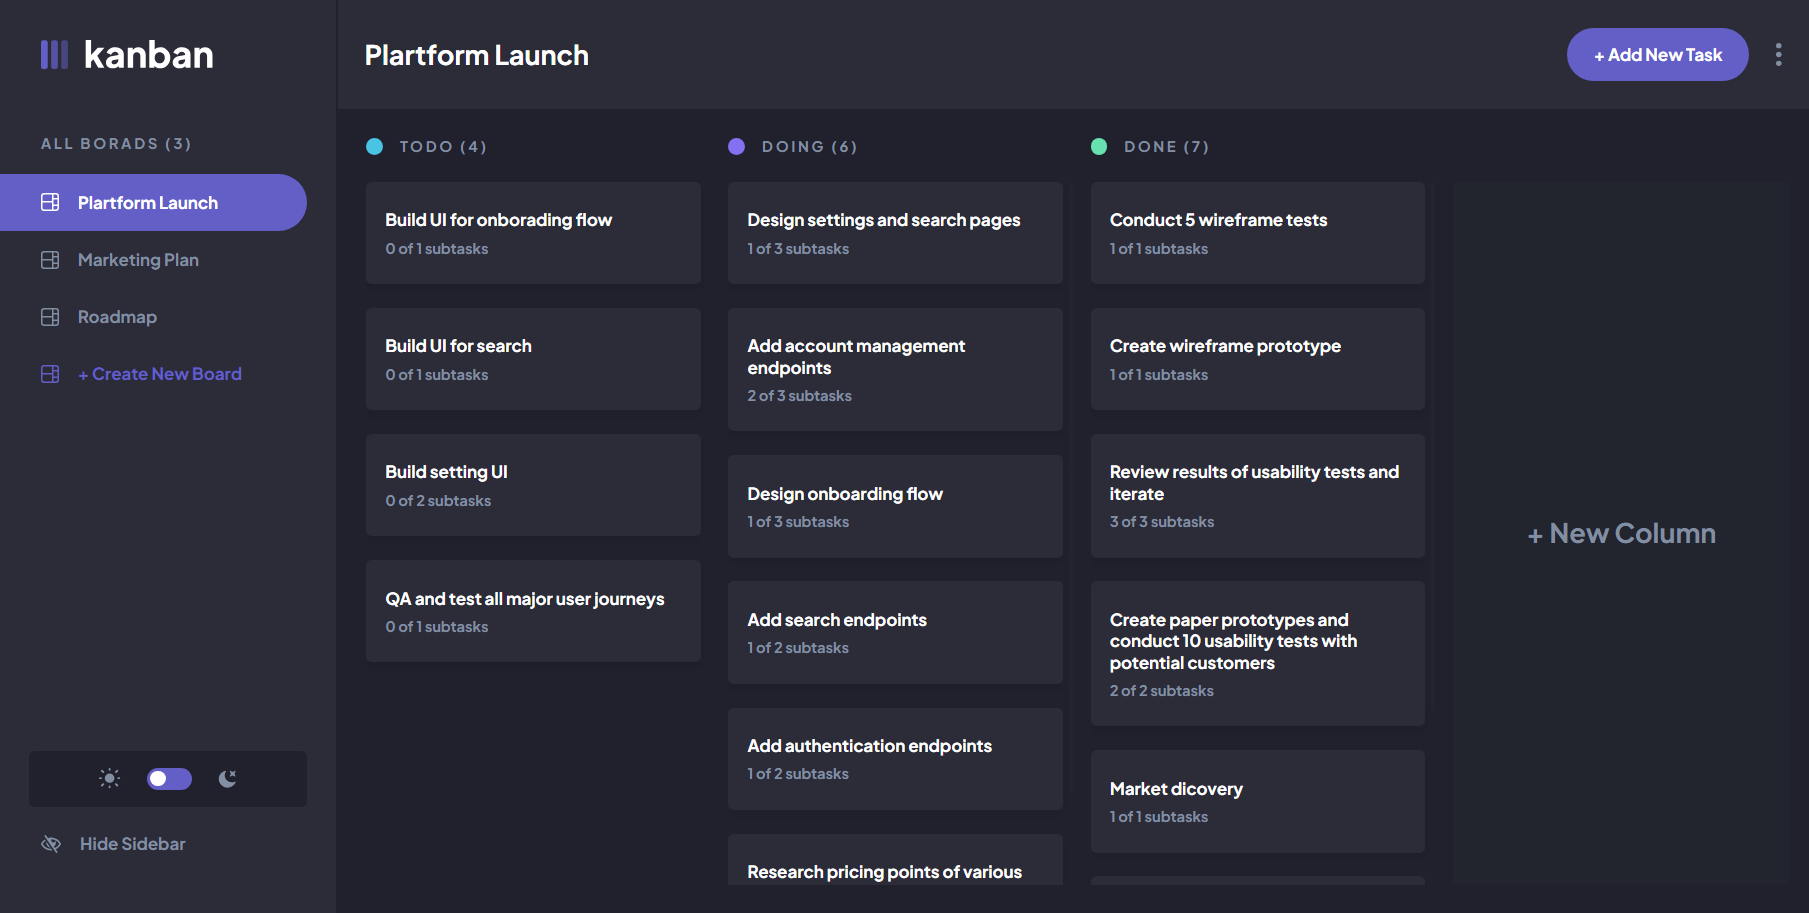
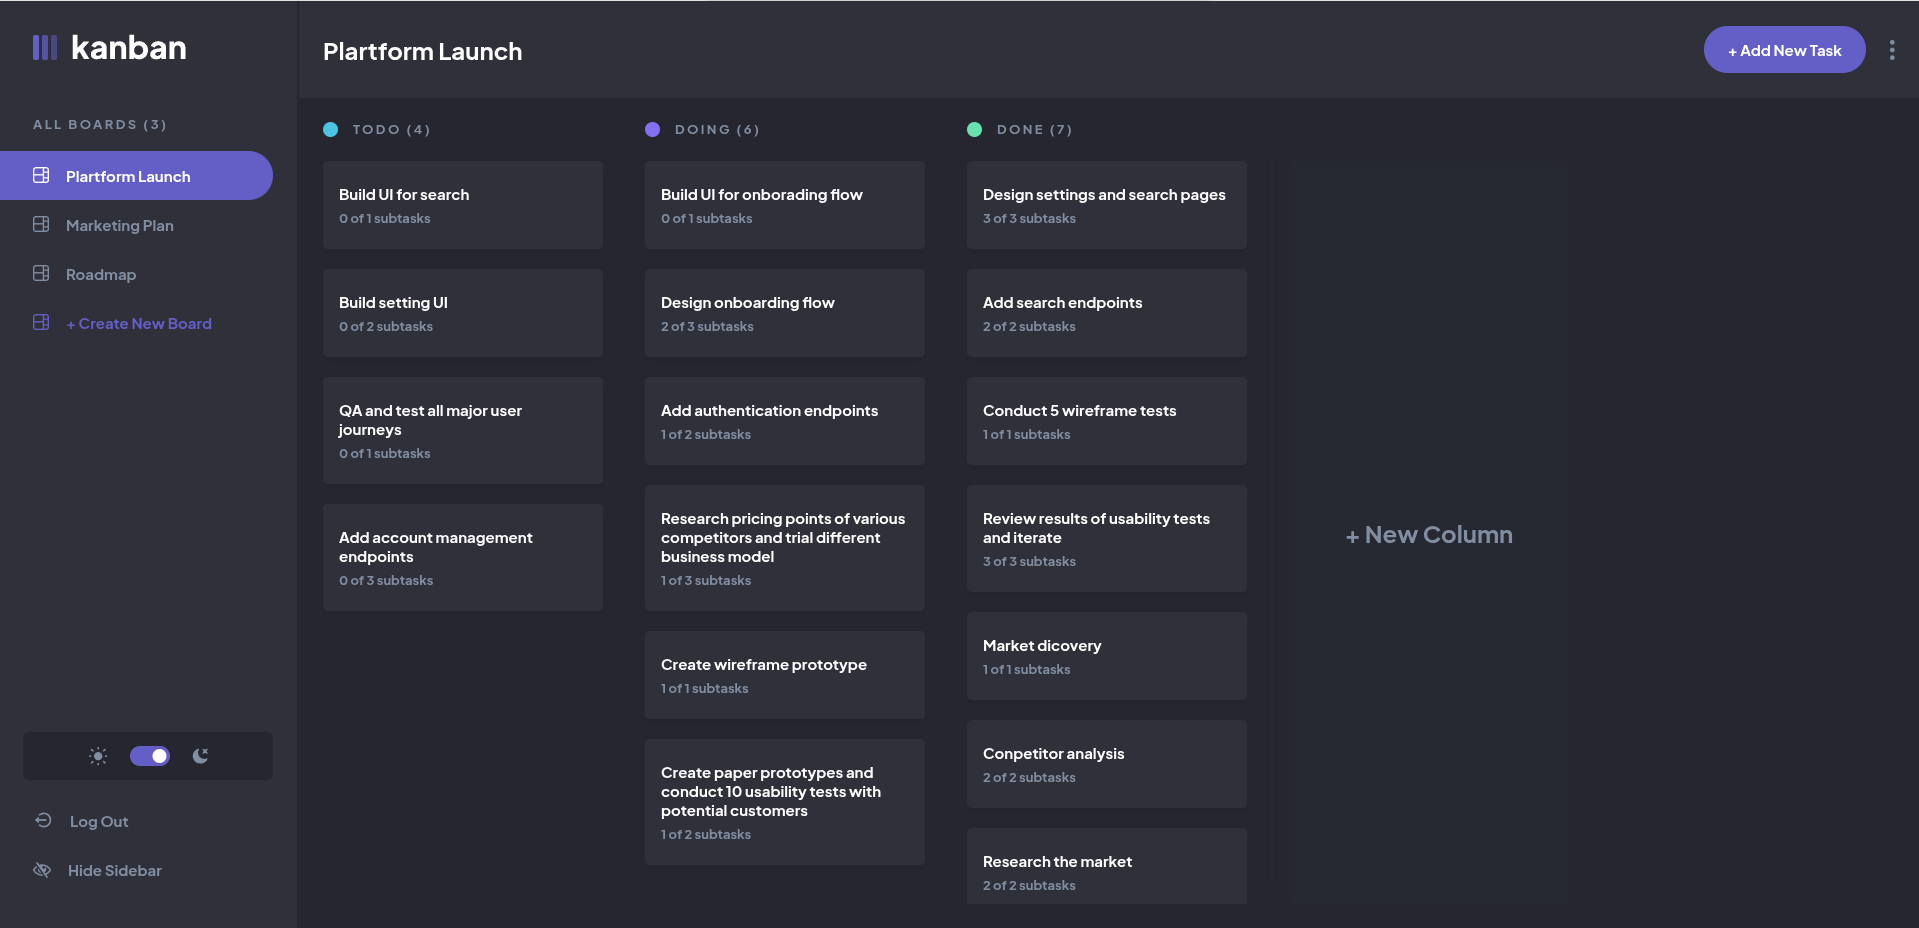
Docs: 調整專案 README 內容並新增中文說明

diff --git a/README.md b/README.md
@@ -2,24 +2,26 @@
 
 This is a solution to the [Kanban task management web app challenge on Frontend Mentor](https://www.frontendmentor.io/challenges/kanban-task-management-web-app-wgQLt-HlbB). Frontend Mentor challenges help you improve your coding skills by building realistic projects.
 
+這是在 Frontend Mentor 上的一個 [Kanban task management 網頁應用挑戰](https://www.frontendmentor.io/challenges/kanban-task-management-web-app-wgQLt-HlbB) 的開發成果。Frontend Mentor 希望藉由打造更貼近真實情境的專案題目，來幫助人們提升程式開發能力。
+
+- Live Demo: https://kanban-task-management-yishin.netlify.app/
+
 ## Table of contents
 
-- [Overview](#overview)
-  - [The challenge](#the-challenge)
-  - [Screenshot](#screenshot)
-  - [Links](#links)
-- [My process](#my-process)
-  - [Built with](#built-with)
-  - [Wireframe](#wireframe)
-  - [Components structure](#components-structure)
-  - [Events list](#events-list)
-  - [What I learned](#what-i-learned)
-  - [Useful resources](#useful-resources)
-- [Author](#author)
+- [Overview 概覽](#overview-概覽)
+  - [The challenge 挑戰內容](#the-challenge-挑戰內容)
+  - [Other features 其他功能](#other-features-其他功能)
+  - [Screenshot 專案截圖](#screenshot-專案截圖)
+- [My process 開發過程](#my-process-開發過程)
+  - [Built with 使用技術](#built-with-使用技術)
+  - [Refactoring 重構流程](#refactoring-重構流程)
+  - [What I learned 學習收穫](#what-i-learned-學習收穫)
+  - [Useful resources 實用資源](#useful-resources-實用資源)
+- [Author 作者](#author-作者)
 
-## Overview
+## Overview 概覽
 
-### The challenge
+### The challenge 挑戰內容
 
 Users should be able to:
 
@@ -30,46 +32,107 @@ Users should be able to:
 - Mark subtasks as complete and move tasks between columns
 - Hide/show the board sidebar
 - Toggle the theme between light/dark modes
-- **Bonus**: Allow users to drag and drop tasks to change their status and re-order them in a column
-- **Bonus**: Keep track of any changes, even after refreshing the browser (`localStorage` could be used for this if you're not building out a full-stack app)
-- **Bonus**: Build this project as a full-stack application
+- **Bonus**: Allow users to drag and drop tasks to change their status <s>and re-order them in a column</s>
+- **Bonus**: Keep track of any changes, even after refreshing the browser
+- <s>**Bonus**: Build this project as a full-stack application</s>
 
-### Screenshot
+p.s. Items with strikethrough are not implemented. Also, data is currently persisted with Supabase rather than a self-built backend.
+
+使用者應該能夠：
+
+- 依照裝置的螢幕尺寸，看到最合適的版面配置
+- 看到頁面上所有可互動元素的 hover 狀態
+- 新增、讀取、更新與刪除版塊和任務
+- 在新增或編輯版塊與任務時，收到必填欄位的驗證提示
+- 將子任務標記為已完成，並在不同狀態欄位之間移動任務
+- 隱藏或顯示看板側邊欄
+- 在淺色與深色模式之間切換主題
+- **加分項目**：讓使用者透過拖放任務來變更狀態，<s>並在同一欄位中重新排序</s>
+- **加分項目**：即使重新整理瀏覽器，也能保留所有變更
+- <s>**加分項目**：將這個專案做成全端應用程式</s>
+
+p.s. 加上刪除線的項目並未實作。以及目前資料的保存是使用 supabase 而非自行建置的後端。
+
+### Other features 其他功能
+
+Besides the basic features required by the challenge, the following were also added:
+
+- An account login page
+- A logout button in the sidebar
+- An empty state when no board exists yet
+- `*` marks on required fields
+- Loading animations on form submit buttons
+
+除了上述挑戰要求的基本功能以外，也進行了以下內容調整：
+
+- 新增了帳號登入畫面
+- 在側邊欄中新增了登出按鈕
+- 新增了尚未存在任何版塊時的空畫面
+- 需要驗證的表單欄位新增了 `*` 標記
+- 在表單的送出按鈕中新增 loading 動畫
+
+### Screenshot 專案截圖
 
 ![](./design/screenshot-light.png)
 
 ![](./design/screenshot-dark.png)
 
-### Links
+## My process 開發過程
 
-- Live Site URL: [Live site on Netlify](https://kanban-task-management-yishin.netlify.app/)
-- Solution URL: <del>[Solution page on Frontend Mentor](https://your-solution-url.com)</del> Unfinished
-
-## My process
-
-### Built with
+### Built with 使用技術
 
 - Desktop-first workflow
 - Semantic HTML5 markup
-- CSS custom properties
 - SCSS - CSS Preprocessor
-- [React](https://reactjs.org/) - JavaScript library
-- [React-Redux](https://react-redux.js.org/) - JavaScript library
-- [react-beautiful-dnd](https://github.com/atlassian/react-beautiful-dnd) - JavaScript library
+- CSS Modules - Locally scoped CSS
+- [TypeScript](https://www.typescriptlang.org/) - typed superset of JavaScript
+- [React](https://reactjs.org/) - JavaScript library for building user interfaces
+- <s>[React-Redux](https://react-redux.js.org/) - Official React bindings for Redux state management</s>
+- [TanStack Query (React Query)](https://tanstack.com/query/latest) - JavaScript library for server-state management
+- [zustand](https://zustand.docs.pmnd.rs/) - JavaScript library for state-management
+- <s>[react-beautiful-dnd](https://github.com/atlassian/react-beautiful-dnd) - JavaScript library for drag and drop (archived)</s>
+- [@hello-pangea/dnd](https://github.com/hello-pangea/dnd) - JavaScript library for drag and drop
 - [supabase](https://supabase.com/) - an open source Firebase alternative
 
-### Wireframe
+- [Vite](https://vite.dev/) - frontend build tool
 
-<img src="./design/responsive-web-design-1.png">
-<img src="./design/responsive-web-design-2.png" width="600px">
+### Refactoring 重構流程
 
-### Components structure
+The project was originally built in 2023 with Create React App, global SCSS and Redux ([source code before refactoring](https://github.com/Yishin-Jheng/kanban-task-management/tree/v1)). In 2026, it was refactored step by step.
 
-![](./design/components-structure.png)
+這個專案最初在 2023 年以 create-react-app、全域 SCSS 與 Redux 進行開發（[重構前的原始碼](https://github.com/Yishin-Jheng/kanban-task-management/tree/v1)），並在 2026 年進行了分階段的重構。
 
-### What I learned
+1. **Build tool: CRA → Vite**
 
-- Using CSS variables and HTML dataset property to manage the theme switching
+   Since Create React App is no longer maintained, switching to Vite provides a smoother development experience, keeps the tooling consistent with my other projects, and is better suited for the later TypeScript migration.
+
+   由於 create-react-app 已不再維護，改用 Vite 能獲得流暢的開發體驗，且與其他個人專案的工具保持一致，也更適合後續的 TypeScript 遷移。
+
+2. **Styling: global SCSS → CSS Modules (with SCSS)**
+
+   Styles were moved into component-scoped `.module.scss` files, with [clsx](https://github.com/lukeed/clsx) for conditional class names. Besides making components and their styles easier to manage, this also prevents class name collisions.
+
+   將樣式拆分為以元件為範圍的 `.module.scss` 檔案，並使用 [clsx](https://github.com/lukeed/clsx) 處理條件式 class 名稱。除了更方便管理元件與樣式之外，也能避免 class 名稱衝突。
+
+3. **State management: Redux → TanStack Query + zustand**
+
+   Redux previously handled both server data and UI state. Server data is now managed by TanStack Query, which takes care of fetching, caching and refetching after mutations. Global UI state is handled by zustand.
+
+   In addition, some data syncing logic was moved to Supabase in this phase and is now done in a single RPC call, so the frontend no longer needs multiple API requests to complete a single data change.
+
+   原本 Redux 同時負責伺服器資料與 UI 狀態。現在伺服器資料改由 TanStack Query 管理，由它處理資料抓取、快取，以及 mutation 後的重新抓取；全域的 UI 狀態則使用 zustand 來管理。
+
+   此外，部分資料的同步邏輯也在此階段移至 supabase，並改由單一 RPC 完成，避免前端需要透過多次的 API 請求才能完成一次的資料改動。
+
+4. **Language: JavaScript → TypeScript**
+
+   The migration was done file by file, in the following order of priority: stores, API functions, custom hooks, components, and finally the app entry.
+
+   以逐檔轉換的方式進行，並根據以下優先順序進行重構：store、API function、custom hook、各個元件，最後則是應用程式入口。
+
+### What I learned 學習收穫
+
+- Using CSS variables and HTML dataset property to manage the theme switching（使用 CSS 變數與 HTML 的 dataset 屬性來實現顏色主題的切換）
 
   **Reference:** [🔗](https://www.youtube.com/watch?v=Xk12JtYG8rw)
 
@@ -91,68 +154,43 @@ Users should be able to:
   }
   ```
 
-- Using `pointer-events` property to trigger parent element hover effect by hovering child element
+- Since `e.target` is typed as `EventTarget` while `element.contains` only accepts a `Node` argument, the TypeScript check fails. Using `e.composedPath()` avoids this problem and better matches the expected behavior.（由於 `e.target` 的型別為 `EventTarget`，但 `element.contains` 只接收 `Node` 型別的參數，導致 TS 的檢查無法通過。但使用 `e.composedPath` 的話則不會有型別問題，邏輯上也更加符合一般的操作預期。）
 
-  **Reference:** [🔗](https://stackoverflow.com/questions/8114657/how-to-style-the-parent-element-when-hovering-a-child-element)
+  ```ts
+  const handleClickOutside = function (e: MouseEvent) {
+    const target = targetRef.current;
 
-  ```css
-  .parent-class {
-    pointer-events: none;
-  }
-
-  .child-class {
-    pointer-events: auto;
-  }
+    if (target && !e.composedPath().includes(target)) {
+      onClickOutside();
+    }
+  };
   ```
 
-- Using `useRef` to manage the form data
+- Using `skipToken` in React Query lets TypeScript narrow the parameter types inside `queryFn`, which `enabled` cannot do. However, it is only safe when the skipping condition is part of the query key; otherwise, use `enabled` instead.（使用 React Query 的 `skipToken` 能讓 TS 在 `queryFn` 中正確收斂參數型別，這是 `enabled` 做不到的。但只有當依賴參數包含在 query key 中時，`skipToken` 才是安全的，否則應改用 `enabled`。）
 
-  **Reference:** [🔗](https://javascript.plainenglish.io/rethinking-the-data-management-for-react-forms-de1a78fe328)
+  **Reference:** [🔗](https://tanstack.com/query/latest/docs/framework/react/guides/disabling-queries#typesafe-disabling-of-queries-using-skiptoken)
 
-  ```js
-  import { useRef } from "react";
+  ```ts
+  useQuery({
+    queryKey: ["columns", boardId],
+    queryFn:
+      typeof boardId === "number" ? () => getColumns({ boardId }) : skipToken,
+  });
 
-  function useFormData(initialData = {}) {
-    const formData = useRef(initialData);
-    const getFormData = () => formData;
-    const handleFormChange = (formData, key) => {
-      return (value) => {
-        formData.current = { ...formData.current, [key]: value };
-      };
-    };
-
-    return [getFormData, handleFormChange];
-  }
+  useQuery({
+    queryKey: ["boards"],
+    queryFn: getBoards,
+    enabled: typeof boardId === "number",
+  });
   ```
 
-- Using `rejectWithValue(errorPayload)` to reject the async thunk when certain situation
+### Useful resources 實用資源
 
-  **Reference:** [🔗](https://redux-toolkit.js.org/api/createAsyncThunk#handling-thunk-errors)
+- [react-icons](https://react-icons.github.io/react-icons) - It is a very useful package. You can add tons of icons by just importing it.（提供了大量 icon 的實用套件）
+- [react-responsive](https://github.com/yocontra/react-responsive) - This package can help us to detect screen size to change JSX content in React.（可以監聽螢幕尺寸，藉此在 React 中切換要顯示的內容。）
+- [supabase's AI tools](https://supabase.com/docs/guides/ai-tools) - Official docs for Supabase's MCP server and Agent Skills, with detailed setup guides. Very practical and friendly for developers who are new to Supabase.（由官方提供的 MCP 與 Skill 文件，也有很詳細的導入說明，對於不熟悉 supabase 的開發者來說非常實用與友善）
 
-  ```js
-  const fetchBoards = createAsyncThunk(
-    "boards/fetch",
-    async (_, { rejectWithValue }) => {
-      const { data, error: getBoardError } = await supabase
-        .from("boards")
-        .select("*")
-        .order("id", { ascending: true });
-
-      if (getBoardError) {
-        return rejectWithValue("Fetch boards error");
-      } else {
-        return data;
-      }
-    },
-  );
-  ```
-
-### Useful resources
-
-- [react-icons](https://react-icons.github.io/react-icons) - It is a very useful package. I can add tons of icons by just importing it, very convenient and efficient.
-- [react-responsive](https://github.com/yocontra/react-responsive) - This package can help us to detect screen size to change JSX content in React.
-
-## Author
+## Author 作者
 
 - Website - [Yi-Shin Jheng](https://github.com/Yishin-Jheng)
 - Frontend Mentor - [@Yishin-Jheng](https://www.frontendmentor.io/profile/Yishin-Jheng)
